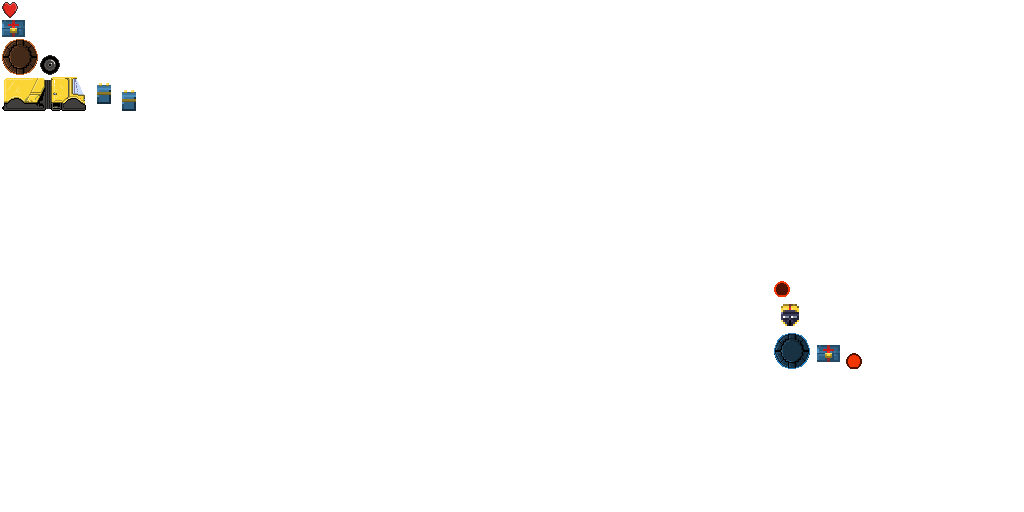
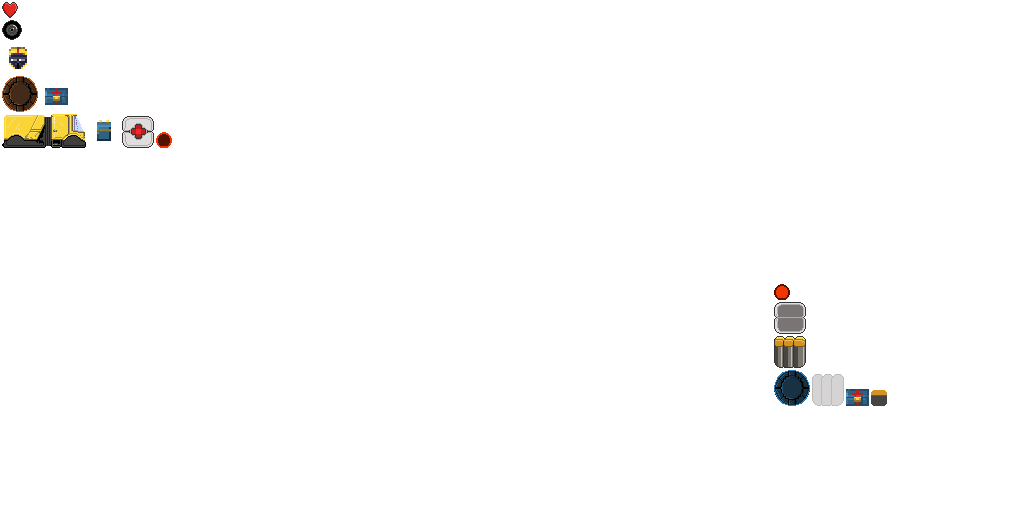
improvements

Changed region(s): [[0.0, 0.0312, 0.1875, 0.3125], [0.75, 0.5312, 0.875, 0.8125]]

diff --git a/core/src/net/mgsx/dl11/model/WorldTile.java b/core/src/net/mgsx/dl11/model/WorldTile.java
@@ -6,6 +6,7 @@ import com.badlogic.gdx.maps.tiled.TiledMapTileLayer;
 import com.badlogic.gdx.maps.tiled.TiledMapTileLayer.Cell;
 import com.badlogic.gdx.math.GridPoint2;
 import com.badlogic.gdx.math.Intersector;
+import com.badlogic.gdx.math.MathUtils;
 import com.badlogic.gdx.math.Vector2;
 import com.badlogic.gdx.scenes.scene2d.Group;
 import com.badlogic.gdx.utils.Array;
@@ -246,9 +247,13 @@ public class WorldTile {
 						hero.actor.setVisible(false);
 						exitingCar = false;
 						
-						// transfert fuel TODO maybe not full fuel ... 
-						game.carFuel += game.heroFuel;
-						game.heroFuel = 0;
+						// transfert fuel
+						int currentFuel = MathUtils.ceil(game.carFuel);
+						int fuelEmpty = GameSettings.CAR_FUEL_MAX - currentFuel;
+						int fuelToAdd = Math.min(fuelEmpty, game.heroFuel);
+						
+						game.carFuel += fuelToAdd;
+						game.heroFuel -= fuelToAdd;
 						
 						Story.enteringCar(game);
 						

diff --git a/core/src/net/mgsx/dl11/assets/Assets.java b/core/src/net/mgsx/dl11/assets/Assets.java
@@ -104,17 +104,27 @@ public class Assets {
 	*/
 
 	public TextureRegion getMedPackRegion() {
-		return skin.getRegion("medpack");
+		return skin.getRegion("medpack2");
 	}
 
 	public TextureRegion getFuelRegion() {
-		return skin.getRegion("fuel");
+		return skin.getRegion("fuel2");
+	}
+	public TextureRegion getMedPackOpenRegion() {
+		return skin.getRegion("medpack2-opened");
+	}
+
+	public TextureRegion getFuelOpenRegion() {
+		return skin.getRegion("fuel2-open");
 	}
 
 	public TextureRegion getLifeRegion() {
 		return skin.getRegion("life");
 	}
-
+	public TextureRegion getFuelMiniRegion() {
+		return skin.getRegion("fuel-mini");
+	}
+	
 	public TiledMap getMap(String name) {
 		for(MapDesc map : maps){
 			if(map.name.equals(name)){

diff --git a/core/src/net/mgsx/dl11/model/MedPack.java b/core/src/net/mgsx/dl11/model/MedPack.java
@@ -2,6 +2,7 @@ package net.mgsx.dl11.model;
 
 import com.badlogic.gdx.scenes.scene2d.Group;
 import com.badlogic.gdx.scenes.scene2d.ui.Image;
+import com.badlogic.gdx.scenes.scene2d.utils.TextureRegionDrawable;
 import com.badlogic.gdx.utils.Align;
 
 import net.mgsx.dl11.assets.Assets;
@@ -44,6 +45,16 @@ public class MedPack extends Bonus {
 			Assets.i.audio.playBonusDenied();
 			return false;
 		}
+	}
+	
+	@Override
+	protected void setClosed() {
+		sprite.setDrawable(new TextureRegionDrawable(Assets.i.getMedPackRegion()));
+	}
+
+	@Override
+	protected void setOpened() {
+		sprite.setDrawable(new TextureRegionDrawable(Assets.i.getMedPackOpenRegion()));
 	}
 
 }

diff --git a/core/src/net/mgsx/dl11/model/Fuel.java b/core/src/net/mgsx/dl11/model/Fuel.java
@@ -2,6 +2,7 @@ package net.mgsx.dl11.model;
 
 import com.badlogic.gdx.scenes.scene2d.Group;
 import com.badlogic.gdx.scenes.scene2d.ui.Image;
+import com.badlogic.gdx.scenes.scene2d.utils.TextureRegionDrawable;
 import com.badlogic.gdx.utils.Align;
 
 import net.mgsx.dl11.assets.Assets;
@@ -44,6 +45,16 @@ public class Fuel extends Bonus {
 			Assets.i.audio.playBonusDenied();
 			return false;
 		}
+	}
+
+	@Override
+	protected void setClosed() {
+		sprite.setDrawable(new TextureRegionDrawable(Assets.i.getFuelRegion()));
+	}
+
+	@Override
+	protected void setOpened() {
+		sprite.setDrawable(new TextureRegionDrawable(Assets.i.getFuelOpenRegion()));
 	}
 
 }

diff --git a/core/src/net/mgsx/dl11/model/Bonus.java b/core/src/net/mgsx/dl11/model/Bonus.java
@@ -17,13 +17,18 @@ abstract public class Bonus extends Entity{
 	public void respawn(GameState game) {
 		if(!active && game.ticks >= lastTick + GameSettings.BONUS_RESPAWN_TICKS){
 			active = true;
-			actor.setVisible(true);
+			// actor.setVisible(true);
+			setClosed();
 		}
 	}
 	
+	abstract protected void setClosed();
+	abstract protected void setOpened();
+
 	protected void unspawn(GameState game) {
 		active = false;
-		actor.setVisible(false);
+		// actor.setVisible(false);
+		setOpened();
 		lastTick = game.ticks;
 	}
 

diff --git a/core/src/net/mgsx/dl11/ui/HUD.java b/core/src/net/mgsx/dl11/ui/HUD.java
@@ -30,7 +30,7 @@ public class HUD extends Table
 		root.setRound(false);
 		
 		root.add(lifeBar = new ItemBar(game.heroLife, GameSettings.HERO_LIFE_MAX, Assets.i.getLifeRegion(), skin));
-		root.add(fuelBar = new ItemBar(game.heroFuel, GameSettings.HERO_FUEL_MAX, Assets.i.getFuelRegion(), skin));
+		root.add(fuelBar = new ItemBar(game.heroFuel, GameSettings.HERO_FUEL_MAX, Assets.i.getFuelMiniRegion(), skin));
 		root.add(fuelRate = new MeterUI(Color.YELLOW, skin)).height(.3f).width(4f);
 		
 		// debugAll();

diff --git a/core/src/net/mgsx/dl11/model/Hero.java b/core/src/net/mgsx/dl11/model/Hero.java
@@ -98,12 +98,9 @@ public class Hero extends Entity
 		
 		position.mulAdd(velocity, delta);
 		
-		// TODO remove color changes
-		if(world.clamp(this)){
-			sprite.setColor(Color.GOLD);
-		}else{
-			sprite.setColor(Color.WHITE);
-		}
+		world.clamp(this);
+		
+		sprite.setColor(Color.WHITE);
 		
 		if(blinkTimeout > 0){
 			sprite.getColor().a = (time * 10) % 1f > .8f ? 1 : .2f;
